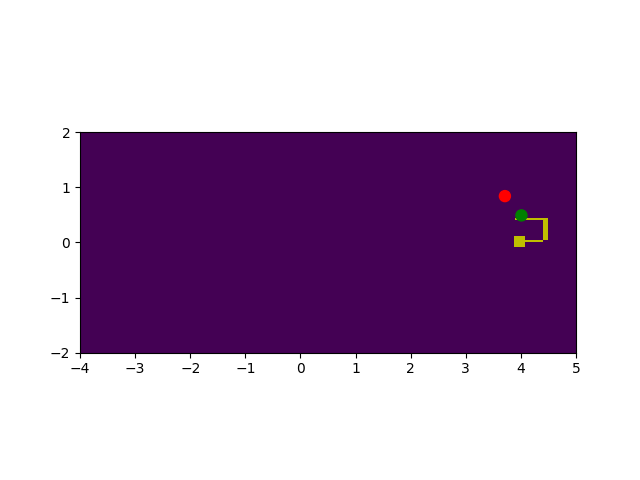
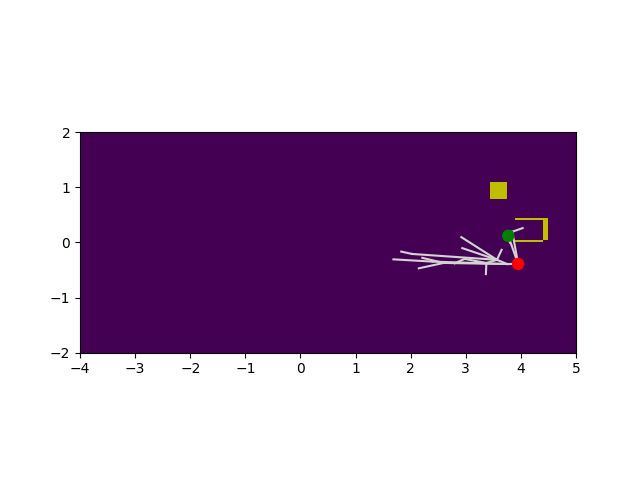
aaa

Changed region(s): [[0.625, 0.375, 0.8438, 0.5625]]

diff --git a/our_code/3_main.py b/our_code/3_main.py
@@ -23,10 +23,9 @@ from shapely.geometry import Polygon  # Ensure this is imported
 c_pos, c_rot, c_rad = [0,0,0], 0, 0
 t_pos2, t_rot2, t_rad2 = [0,0,0], 0, 0
 t_pos, t_rot, t_rad = [0,0,0], 0, 0
-base_pos = [3.4, 0.09, 0]
-json_file_path = "our_code/path_algorithms/map1.json"
-planning_env = MapEnvironment(json_file=json_file_path)
-i=1
+base_pos = [3.9, 0.09, 0.28]
+i = 1  # Initialize a global variable for iteration count
+
 
 def receive_new_desc(desc: DataDescriptions):
     # This function is triggered when new data descriptions are received from the OptiTrack system.
@@ -132,17 +131,41 @@ def GoToTarget(is_cube = True, curr_t_pos = t_pos):
 
 
 
+def add_cube_obstacle(env, cube_pos, size=0.2):
+    """
+    Adds a square obstacle representing a cube to the environment.
+
+    Args:
+        env (MapEnvironment): The planning environment object.
+        cube_pos (list): The [x, y, z] position of the cube (only x and z used).
+        size (float): The size of the cube (side length in meters).
+    """
+    cx, cz = cube_pos[0], cube_pos[2]
+    half = size / 2
+    obstacle = [
+        [cx - half, cz - half],
+        [cx + half, cz - half],
+        [cx + half, cz + half],
+        [cx - half, cz + half],
+        [cx - half, cz - half]
+    ]
+    env.obstacles.append(Polygon(obstacle))
 
 
 # Function get data where the  robot car and where the cube is and calculate the path to the cube
-def get_path_to_target(start_pos, goal_pos):
+def get_path_to_target(start_pos, goal_pos, cube_obstacles=[]):
     global i  # Use the global variable i
+    json_file_path = "our_code/path_algorithms/map1.json"
+    planning_env = MapEnvironment(json_file=json_file_path)
     # Initialize the map environment with the JSON file path
     planning_env.start = np.array([start_pos[0], start_pos[2]])  # Use x and y coordinates for the start position
     planning_env.goal = np.array([goal_pos[0], goal_pos[2]])  # Use x and y coordinates for the goal position
-
+# Add dynamic obstacles (e.g., cubes detected in the environment)
+    for cube_pos in cube_obstacles:
+        print(f"BBBBBBBBBBAdding cube obstacle at position {cube_pos}.")
+        add_cube_obstacle(planning_env, cube_pos)
     # Create an instance of the RCSPlanner with the planning environment
-    planner = RRTStarPlanner(planning_env=planning_env, ext_mode='E2', goal_prob=0.05, k=10)
+    planner = RRTStarPlanner(planning_env=planning_env, ext_mode='E2', goal_prob=0.40, k=10)
     print(f"Planning path from {planning_env.start} to {planning_env.goal}...")
     # Execute the planning algorithm to get the path
     plan = planner.plan()
@@ -163,13 +186,13 @@ try:
         time.sleep(1)  # Allow some time for the client to start and receive data
         print("Streaming started. Waiting for data...")
         plan = []
-        plan=get_path_to_target(c_pos, t_pos)
+        plan=get_path_to_target(c_pos, t_pos2,[t_pos])  # Pass t_pos2 as a dynamic obstacle
 
         #iteration nover the plan
         for i in range(len(plan) - 1):
             go_to_pos = [plan[i+1][0],0, plan[i+1][1]]  # Add an extra element (e.g., 0) to go_to_pos
             print("Current position:", go_to_pos)
-            turnToTarget(False, go_to_pos)
+            # turnToTarget(False, go_to_pos)
             turnToTarget(False, go_to_pos)
             GoToTarget(False, go_to_pos)
 
@@ -178,15 +201,17 @@ try:
         # GoToTarget()
         print("Chaser is facing the target.")
     
-        send_servo_request(57)
-        plan=get_path_to_target(c_pos, base_pos)
+        send_servo_request(80)
+        plan=get_path_to_target(c_pos, base_pos, [t_pos])  # Pass t_pos2 as a dynamic obstacle
         print("finished planening")
         for i in range(len(plan) - 1):
             go_to_pos = [plan[i+1][0],0, plan[i+1][1]]  # Add an extra element (e.g., 0) to go_to_pos
             print("Current position:", go_to_pos)
-            turnToTarget(False, go_to_pos)
+            # turnToTarget(False, go_to_pos)
             turnToTarget(False, go_to_pos)
             GoToTarget(False, go_to_pos)
+        turnToTarget(False, [go_to_pos[0]+0.3,0.09, 0.28])
+        GoToTarget(False, [go_to_pos[0]+0.3,0.09, 0.28])  # Move slightly forward after reaching the target
         
         # turnToTarget(False, base_pos)
         # turnToTarget(False, base_pos)
@@ -199,53 +224,6 @@ try:
     print("t_pos: ", t_pos, "t_rot: ", t_rot, "t_rad: ", t_rad)
 
 
-# try:
-#     send_servo_request(30)
-#     with streaming_client:
-#         streaming_client.request_modeldef()
-
-#         streaming_client.update_sync()
-#         #streaming_client.run_async()
-#         time.sleep(1)  # Allow some time for the client to start and receive data
-#         print("Streaming started. Waiting for data...")
-#         plan = []
-#         plan=get_path_to_target(c_pos, t_pos)
-
-#         #iteration nover the plan
-#         for i in range(len(plan) - 1):
-#             go_to_pos = [plan[i+1][0],0, plan[i+1][1]]  # Add an extra element (e.g., 0) to go_to_pos
-#             print("Current position:", go_to_pos)
-#             if i == 0:
-#                 turnToTarget(False, go_to_pos)
-#                 print("first turn to target")
-#             GoToTargetWithSteer(False, go_to_pos)
-
-#         # turnToTarget()
-#         # turnToTarget()
-#         # GoToTarget()
-#         print("Chaser is facing the target.")
-    
-#         send_servo_request(57)
-#         plan=get_path_to_target(c_pos, base_pos)
-#         print("finished planening")
-#         for i in range(len(plan) - 1):
-#             go_to_pos = [plan[i+1][0],0, plan[i+1][1]]  # Add an extra element (e.g., 0) to go_to_pos
-#             print("Current position:", go_to_pos)
-#             if i == 0:
-#                 turnToTarget(False, go_to_pos)
-#                 print("first turn to target")
-#             GoToTargetWithSteer(False, go_to_pos)
-
-        
-#         # turnToTarget(False, base_pos)
-#         # turnToTarget(False, base_pos)
-#         # GoToTarget(False, base_pos)
-#         print("KNOW WE CAN GO TO THE TARGET POSITION")
-
-        
-#     send_servo_request(30)
-#     print("c_pos: ", c_pos, "c_rot: ", c_rot, "c_rad: ", c_rad)
-#     print("t_pos: ", t_pos, "t_rot: ", t_rot, "t_rad: ", t_rad)
 
 
 

diff --git a/our_code/path_algorithms/RRTStarPlanner.py b/our_code/path_algorithms/RRTStarPlanner.py
@@ -51,7 +51,7 @@ class RRTStarPlanner(object):
                 goal = True
             else:
                 # Sample a random state within the environment bounds
-                x = np.random.uniform(env.xlimit[0], env.xlimit[1])
+                x = np.random.uniform(env.xlimit[0], env.xlimit[1]-0.5)
                 y = np.random.uniform(env.ylimit[0], env.ylimit[1])
                 s = [x, y]
 

diff --git a/our_code/path_algorithms/MapEnvironment.py b/our_code/path_algorithms/MapEnvironment.py
@@ -219,7 +219,7 @@ class MapEnvironment(object):
         @param color The requested color for the plan.
         '''
         # add plan edges to the plt
-        point_radius = 0.1
+        point_radius = 0.05
         for expanded_node in expanded_nodes:
             point_circ = plt.Circle(expanded_node, radius=point_radius, color=color, zorder=10)
             plt.gca().add_patch(point_circ)

diff --git a/our_code/draw_obestacles.py b/our_code/draw_obestacles.py
@@ -132,7 +132,7 @@ def GoToTarget(is_cube = True, curr_t_pos = t_pos):
 
 
 
-def add_cube_obstacle(env, cube_pos, size=0.2):
+def add_cube_obstacle(env, cube_pos, size=0.1):
     """
     Adds a square obstacle representing a cube to the environment.
 
